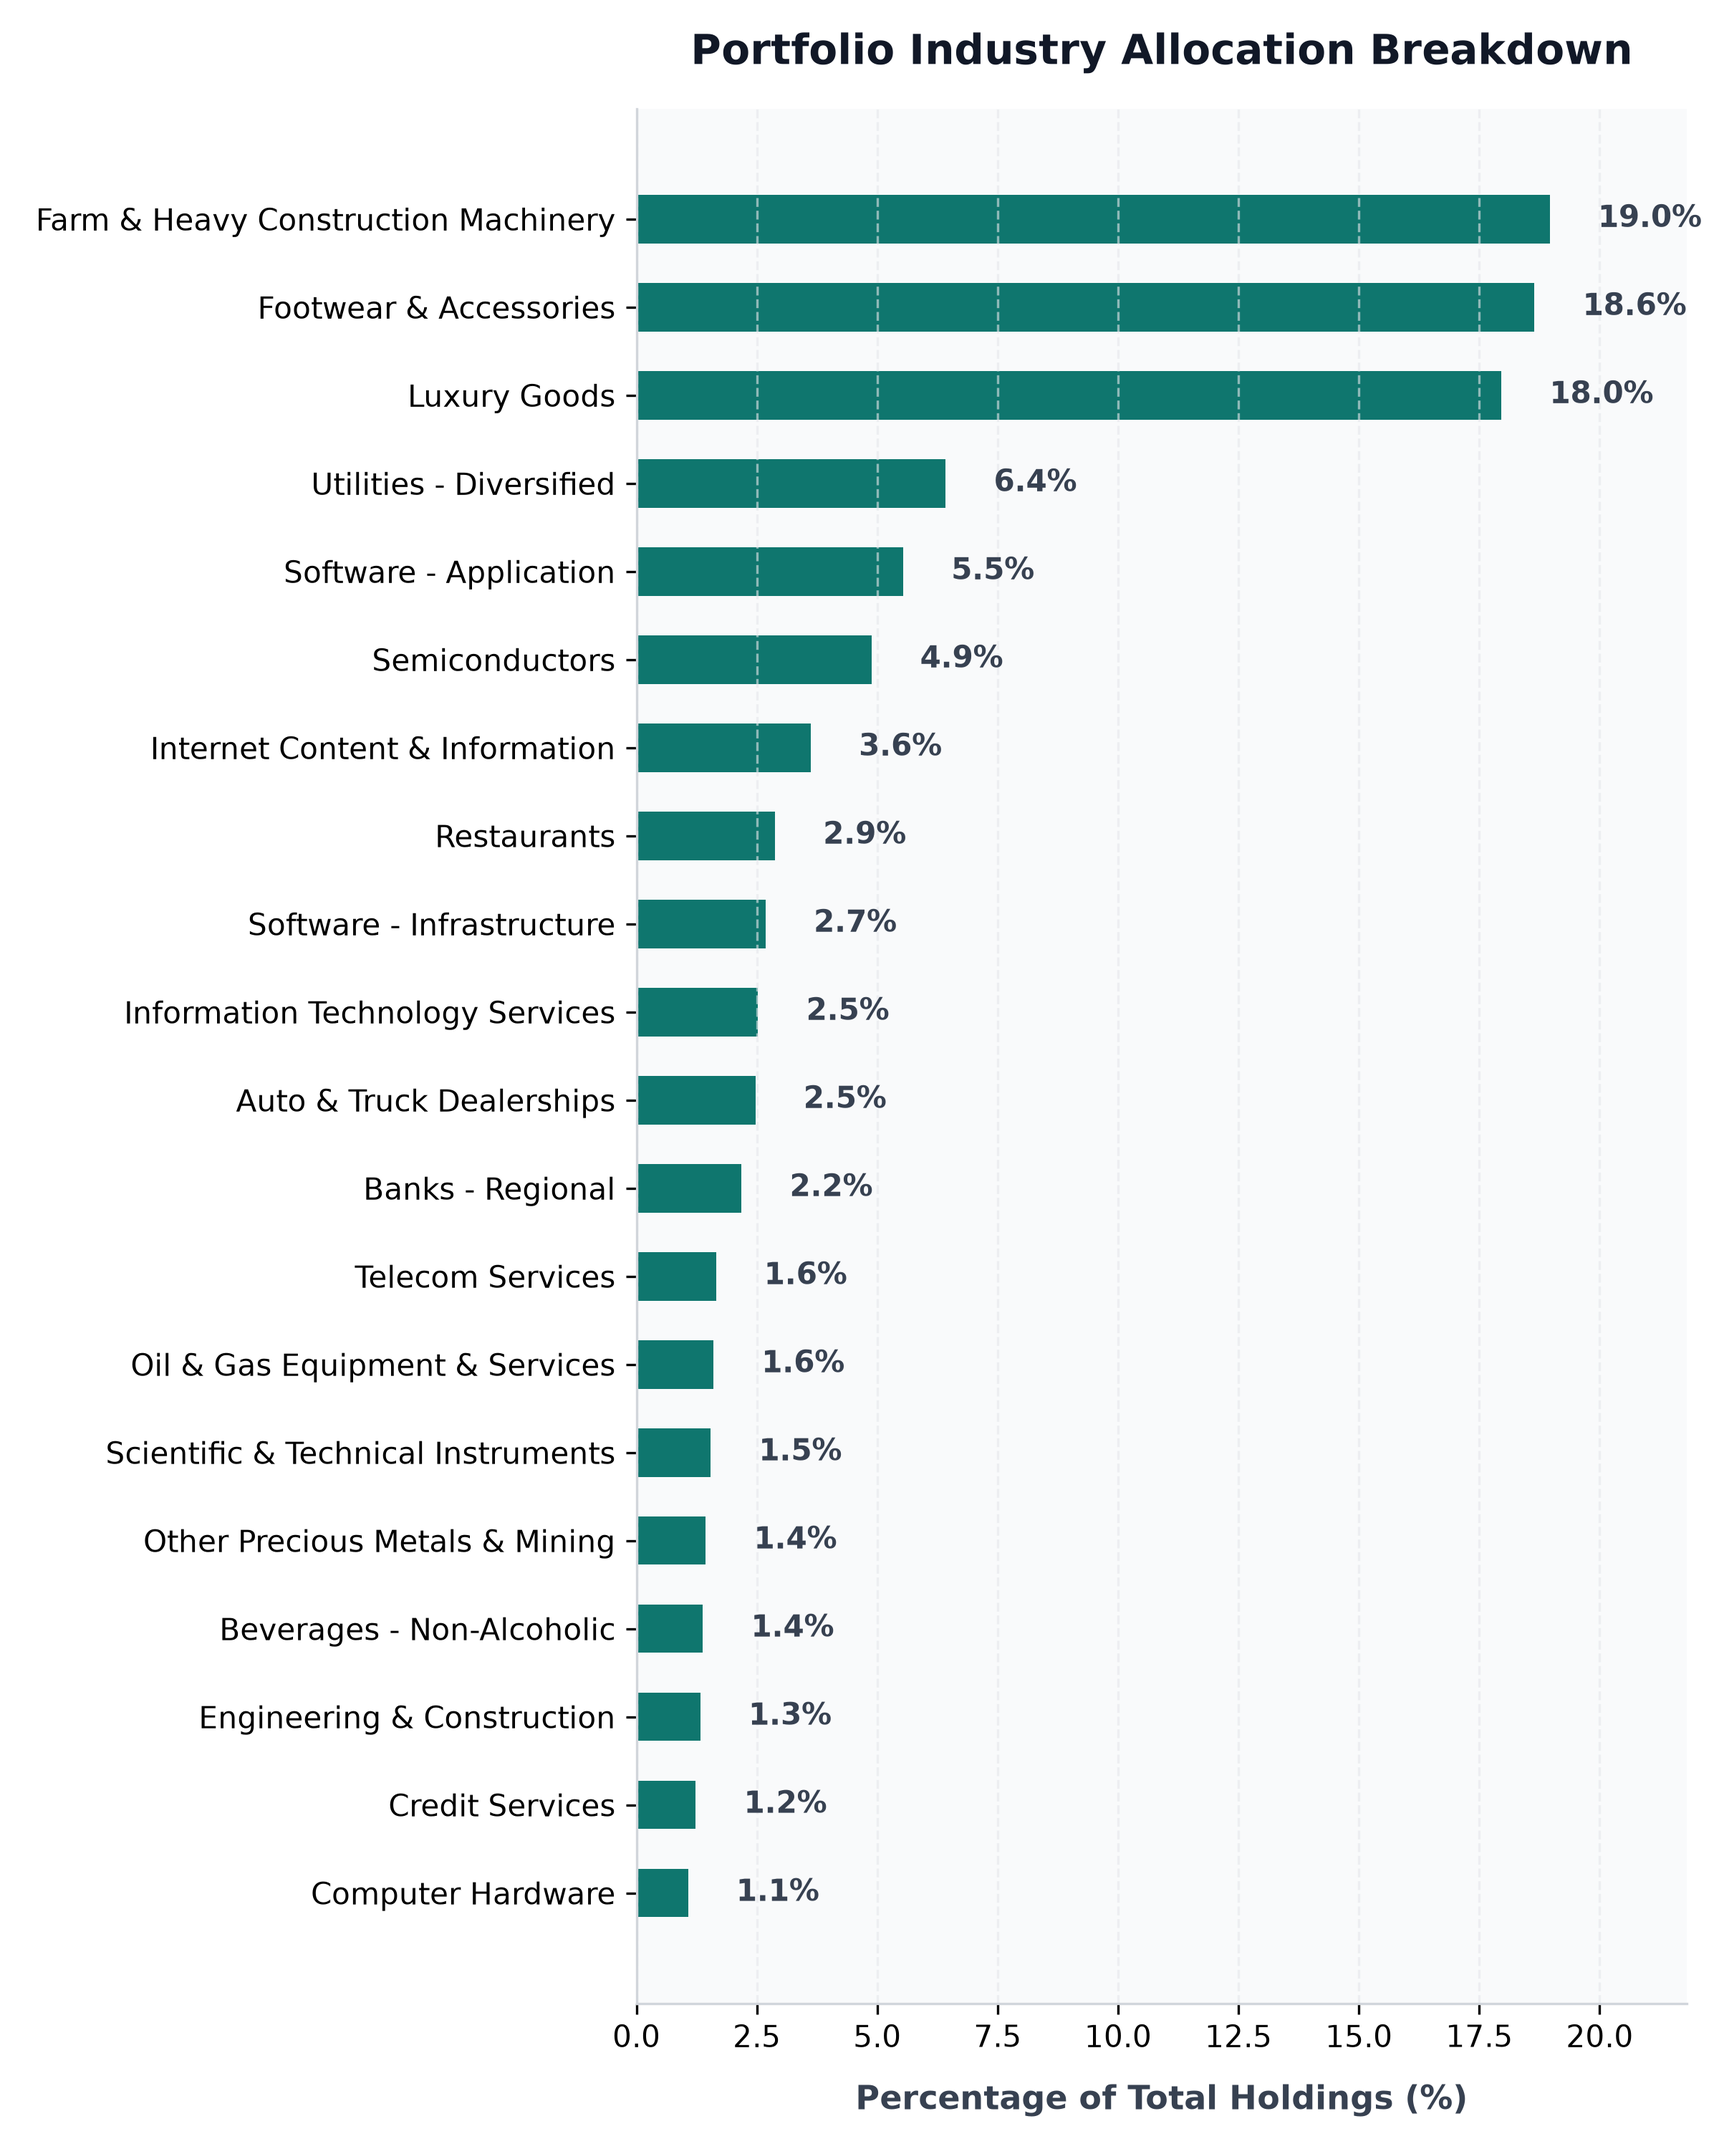
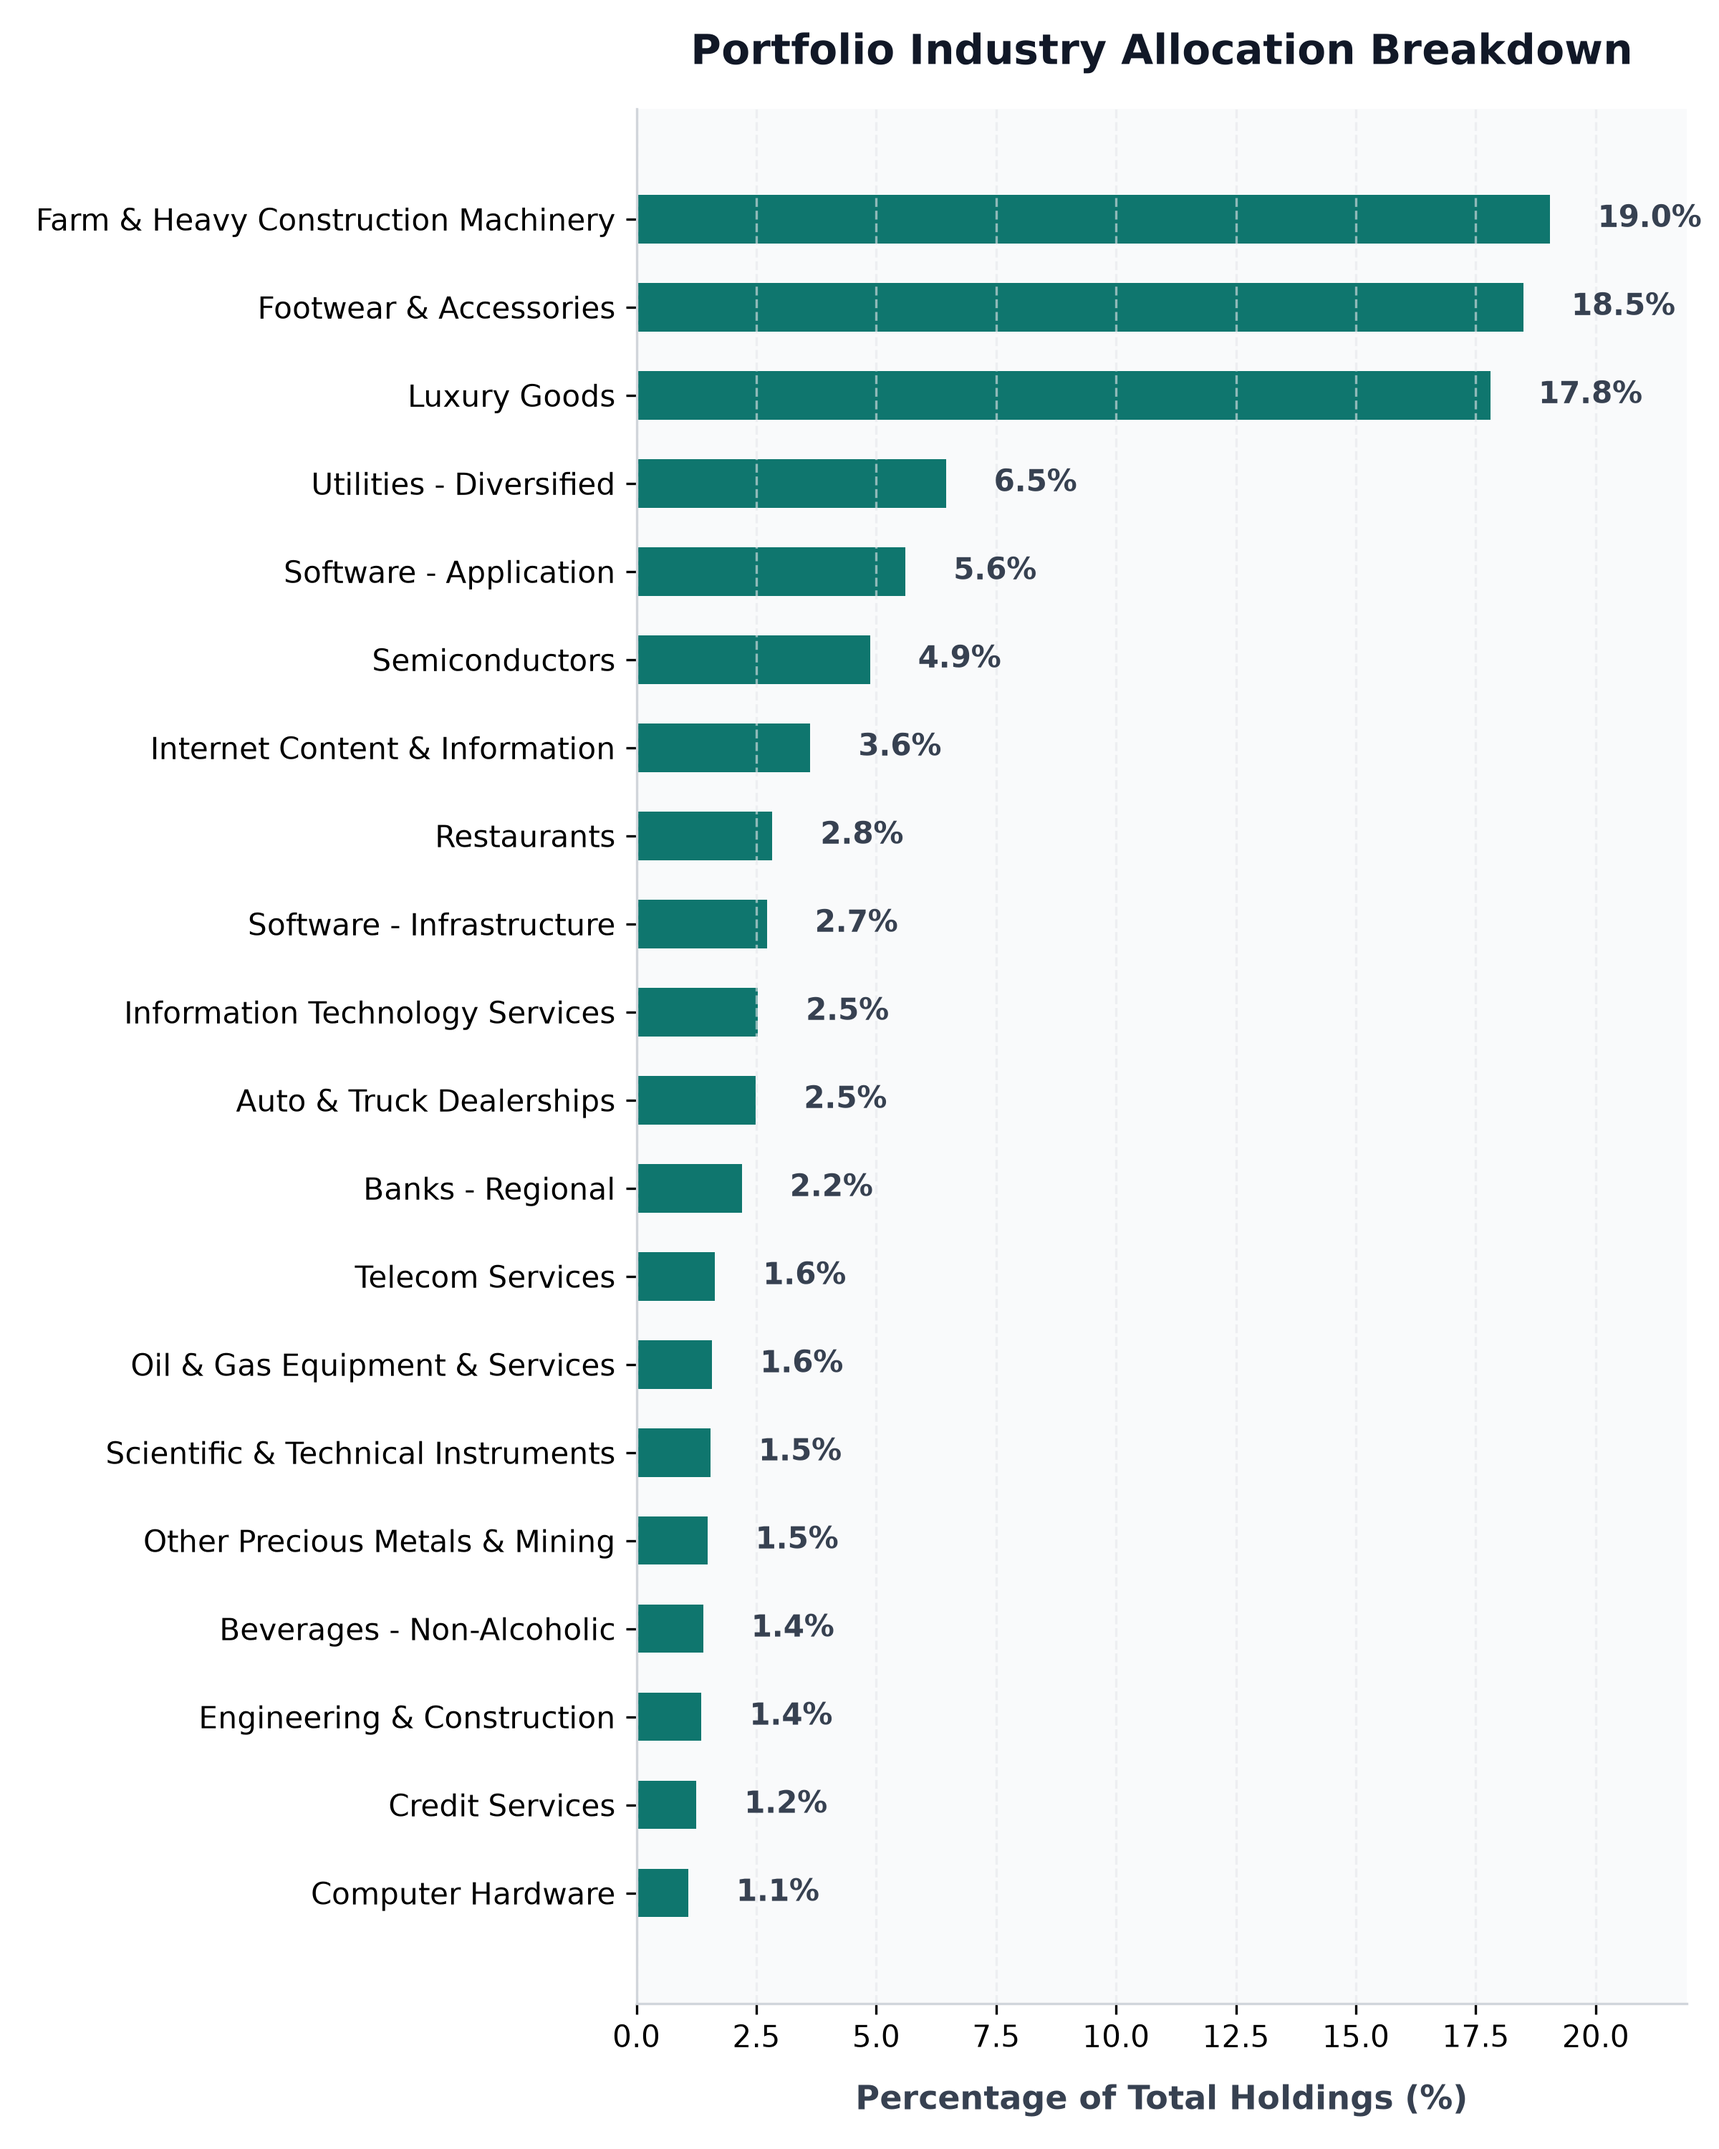
auto: daily portfolio status update - 2026-09-03 06:05:25

diff --git a/src/content/posts/portfolio-performance.md b/src/content/posts/portfolio-performance.md
@@ -1,6 +1,6 @@
 ---
 title: "BadOmen Algorithmic Portfolio Performance & PnL Report"
-pubDatetime: 2026-09-03T00:00:26.686160+08:00
+pubDatetime: 2026-09-03T06:05:25.290712+08:00
 description: "Live performance metrics, active holdings, and historic equity curve for the BadOmen automated paper trading portfolio."
 featured: true
 draft: false
@@ -16,11 +16,11 @@ Welcome to the live performance dashboard for **BadOmen**, our automated algorit
 ## 📊 Portfolio Summary
 | Performance Metric | Value | description |
 | :--- | :--- | :--- |
-| **Net Portfolio Equity** | **$98,237.61** | Total current liquidation value of cash and stock holdings |
-| **Total Unrealized P&L** | 🔴 **$-2,639.39** (-2.62%) | Total return of current open holdings |
+| **Net Portfolio Equity** | **$98,087.98** | Total current liquidation value of cash and stock holdings |
+| **Total Unrealized P&L** | 🔴 **$-2,790.74** (-2.77%) | Total return of current open holdings |
 | **Cash Balance** | $23,482.80 | Idle reserve currency available for limit orders |
-| **Buying Power** | $303,244.68 | Margin-backed buying power for entry allocations |
-| **Report Updated** | `2026-09-03 00:00:26 (SGT)` | Timestamp of daily execution and sync run |
+| **Buying Power** | $302,825.71 | Margin-backed buying power for entry allocations |
+| **Report Updated** | `2026-09-03 06:05:25 (SGT)` | Timestamp of daily execution and sync run |
 
 ## 📈 Net Equity Growth Curve
 The chart below illustrates the historical performance of the account starting from our baseline capital funding of $100,000.00.
@@ -35,36 +35,36 @@ The chart below illustrates the exposure of our currently held active positions 
 ## 💼 Current Position Holdings
 | Ticker | Industry | Shares Owned | Average Entry Cost | Current Price | Unrealized P&L | Return (%) |
 | :--- | :--- | :--- | :--- | :--- | :--- | :--- |
-| **AN** | Auto & Truck Dealerships | 5 | $188.51 | $204.33 | 🟢 +$79.11 | +8.39% |
-| **AVGO** | Semiconductors | 1 | $385.71 | $370.51 | 🔴 $-15.20 | -3.94% |
-| **BIRK** | Footwear & Accessories | 407 | $37.32 | $34.25 | 🔴 $-1,248.56 | -8.22% |
-| **BLBD** | Farm & Heavy Construction Machinery | 231 | $65.52 | $61.37 | 🔴 $-957.72 | -6.33% |
-| **BVN** | Other Precious Metals & Mining | 32 | $31.88 | $33.60 | 🟢 +$55.20 | +5.41% |
-| **CELH** | Beverages - Non-Alcoholic | 33 | $29.71 | $31.23 | 🟢 +$50.07 | +5.11% |
-| **CPRI** | Luxury Goods | 1042 | $14.55 | $12.88 | 🔴 $-1,736.81 | -11.45% |
-| **DUOL** | Software - Application | 14 | $131.04 | $154.85 | 🟢 +$333.35 | +18.17% |
-| **FIS** | Information Technology Services | 23 | $41.79 | $41.91 | 🟢 +$2.88 | +0.30% |
-| **GDDY** | Software - Infrastructure | 6 | $76.21 | $100.70 | 🟢 +$146.94 | +32.14% |
-| **GDS** | Information Technology Services | 30 | $32.77 | $30.79 | 🔴 $-59.40 | -6.04% |
-| **GGAL** | Banks - Regional | 17 | $56.04 | $44.50 | 🔴 $-196.17 | -20.59% |
-| **GOOGL** | Internet Content & Information | 3 | $319.44 | $338.50 | 🟢 +$57.16 | +5.96% |
-| **GPI** | Auto & Truck Dealerships | 3 | $316.15 | $274.37 | 🔴 $-125.34 | -13.21% |
-| **HUBS** | Software - Application | 8 | $221.18 | $246.44 | 🟢 +$202.07 | +11.42% |
-| **ITRI** | Scientific & Technical Instruments | 12 | $81.80 | $95.97 | 🟢 +$170.04 | +17.32% |
-| **KBR** | Engineering & Construction | 27 | $36.23 | $36.74 | 🟢 +$13.69 | +1.40% |
-| **META** | Internet Content & Information | 1 | $568.17 | $592.35 | 🟢 +$24.18 | +4.26% |
-| **NESR** | Oil & Gas Equipment & Services | 34 | $28.74 | $35.13 | 🟢 +$217.26 | +22.23% |
-| **NU** | Banks - Regional | 57 | $11.60 | $15.35 | 🟢 +$213.55 | +32.30% |
-| **ON** | Semiconductors | 10 | $90.45 | $73.77 | 🔴 $-166.90 | -18.45% |
-| **ORCL** | Software - Infrastructure | 5 | $181.95 | $144.39 | 🔴 $-187.80 | -20.64% |
-| **PATH** | Software - Infrastructure | 38 | $10.25 | $17.84 | 🟢 +$288.42 | +74.05% |
-| **PYPL** | Credit Services | 17 | $56.05 | $54.12 | 🔴 $-32.81 | -3.44% |
-| **QCOM** | Semiconductors | 15 | $193.68 | $169.78 | 🔴 $-358.60 | -12.34% |
-| **SMCI** | Computer Hardware | 22 | $29.25 | $36.40 | 🟢 +$157.33 | +24.45% |
-| **SRE** | Utilities - Diversified | 57 | $84.75 | $84.20 | 🔴 $-31.49 | -0.65% |
-| **T** | Telecom Services | 47 | $20.85 | $26.24 | 🟢 +$253.33 | +25.85% |
-| **WEN** | Restaurants | 257 | $8.02 | $8.37 | 🟢 +$87.71 | +4.25% |
-| **ZG** | Internet Content & Information | 31 | $31.35 | $35.39 | 🟢 +$125.14 | +12.88% |
+| **AN** | Auto & Truck Dealerships | 5 | $188.51 | $205.84 | 🟢 +$86.66 | +9.19% |
+| **AVGO** | Semiconductors | 1 | $385.71 | $366.19 | 🔴 $-19.52 | -5.06% |
+| **BIRK** | Footwear & Accessories | 407 | $37.32 | $33.90 | 🔴 $-1,391.01 | -9.16% |
+| **BLBD** | Farm & Heavy Construction Machinery | 231 | $65.52 | $61.50 | 🔴 $-927.69 | -6.13% |
+| **BVN** | Other Precious Metals & Mining | 32 | $31.88 | $34.50 | 🟢 +$84.00 | +8.24% |
+| **CELH** | Beverages - Non-Alcoholic | 33 | $29.71 | $31.47 | 🟢 +$57.99 | +5.91% |
+| **CPRI** | Luxury Goods | 1042 | $14.55 | $12.75 | 🔴 $-1,877.48 | -12.38% |
+| **DUOL** | Software - Application | 14 | $131.04 | $158.00 | 🟢 +$377.38 | +20.57% |
+| **FIS** | Information Technology Services | 23 | $41.79 | $41.94 | 🟢 +$3.37 | +0.35% |
+| **GDDY** | Software - Infrastructure | 6 | $76.21 | $101.87 | 🟢 +$153.96 | +33.67% |
+| **GDS** | Information Technology Services | 30 | $32.77 | $30.82 | 🔴 $-58.65 | -5.97% |
+| **GGAL** | Banks - Regional | 17 | $56.04 | $45.01 | 🔴 $-187.50 | -19.68% |
+| **GOOGL** | Internet Content & Information | 3 | $319.44 | $337.48 | 🟢 +$54.12 | +5.65% |
+| **GPI** | Auto & Truck Dealerships | 3 | $316.15 | $276.41 | 🔴 $-119.22 | -12.57% |
+| **HUBS** | Software - Application | 8 | $221.18 | $246.66 | 🟢 +$203.83 | +11.52% |
+| **ITRI** | Scientific & Technical Instruments | 12 | $81.80 | $96.12 | 🟢 +$171.84 | +17.51% |
+| **KBR** | Engineering & Construction | 27 | $36.23 | $37.47 | 🟢 +$33.40 | +3.41% |
+| **META** | Internet Content & Information | 1 | $568.17 | $594.27 | 🟢 +$26.10 | +4.59% |
+| **NESR** | Oil & Gas Equipment & Services | 34 | $28.74 | $34.64 | 🟢 +$200.60 | +20.53% |
+| **NU** | Banks - Regional | 57 | $11.60 | $15.36 | 🟢 +$214.40 | +32.43% |
+| **ON** | Semiconductors | 10 | $90.45 | $72.25 | 🔴 $-182.10 | -20.13% |
+| **ORCL** | Software - Infrastructure | 5 | $181.95 | $146.22 | 🔴 $-178.65 | -19.64% |
+| **PATH** | Software - Infrastructure | 38 | $10.25 | $18.08 | 🟢 +$297.54 | +76.39% |
+| **PYPL** | Credit Services | 17 | $56.05 | $54.79 | 🔴 $-21.42 | -2.25% |
+| **QCOM** | Semiconductors | 15 | $193.68 | $169.65 | 🔴 $-360.52 | -12.41% |
+| **SMCI** | Computer Hardware | 22 | $29.25 | $36.65 | 🟢 +$162.75 | +25.29% |
+| **SRE** | Utilities - Diversified | 57 | $84.75 | $84.46 | 🔴 $-16.67 | -0.34% |
+| **T** | Telecom Services | 47 | $20.85 | $26.00 | 🟢 +$242.05 | +24.70% |
+| **WEN** | Restaurants | 257 | $8.02 | $8.23 | 🟢 +$53.01 | +2.57% |
+| **ZG** | Internet Content & Information | 31 | $31.35 | $35.44 | 🟢 +$126.69 | +13.04% |
 
 ## 🔴 Recent Realized Trades
 | Ticker | Shares Sold | Entry Price | Exit Price | Strategy Trigger | Realized Return | Exit Date |
